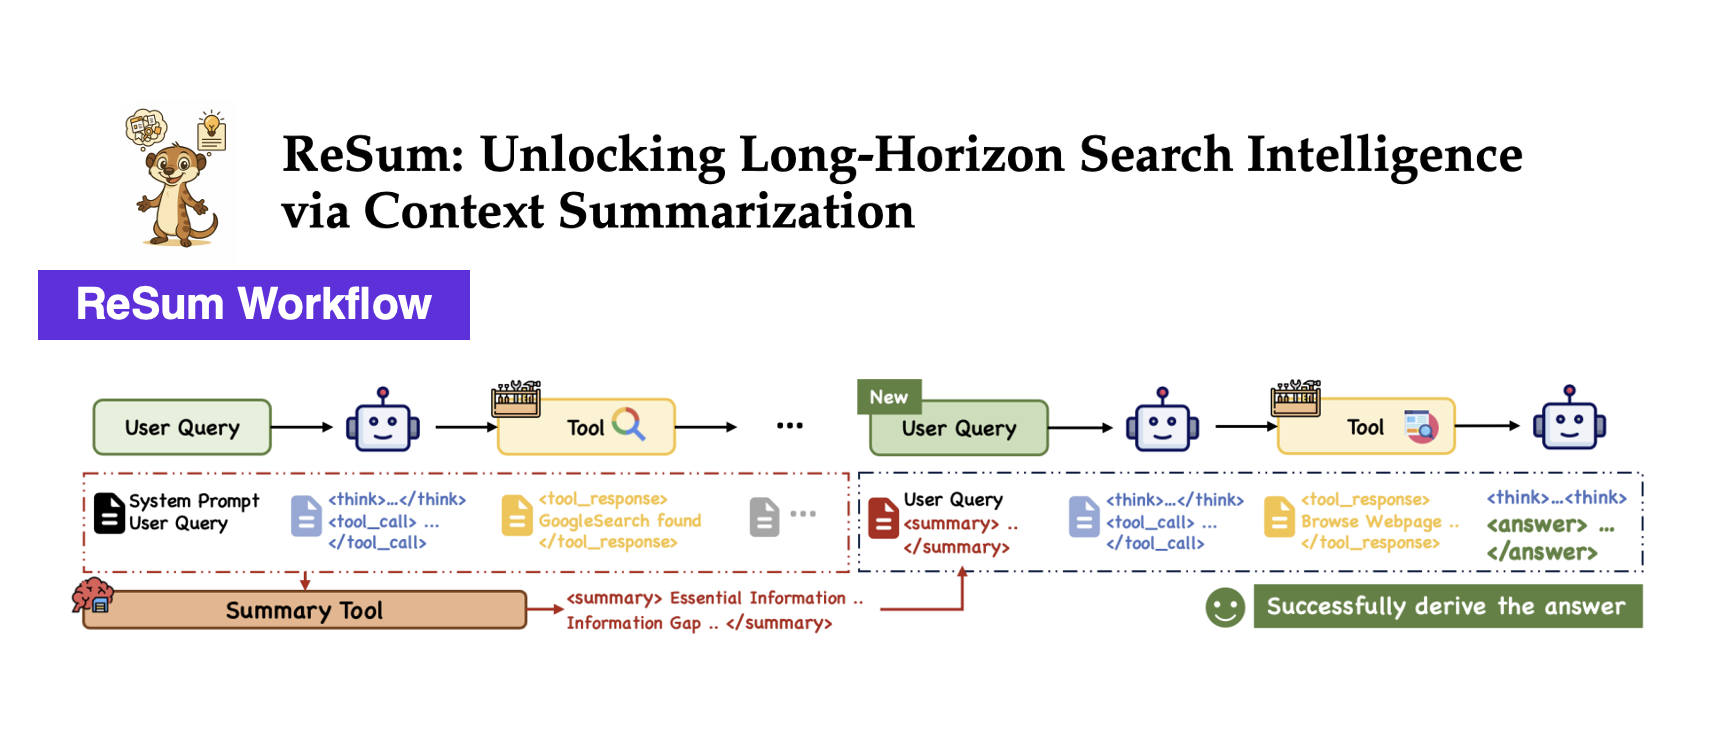
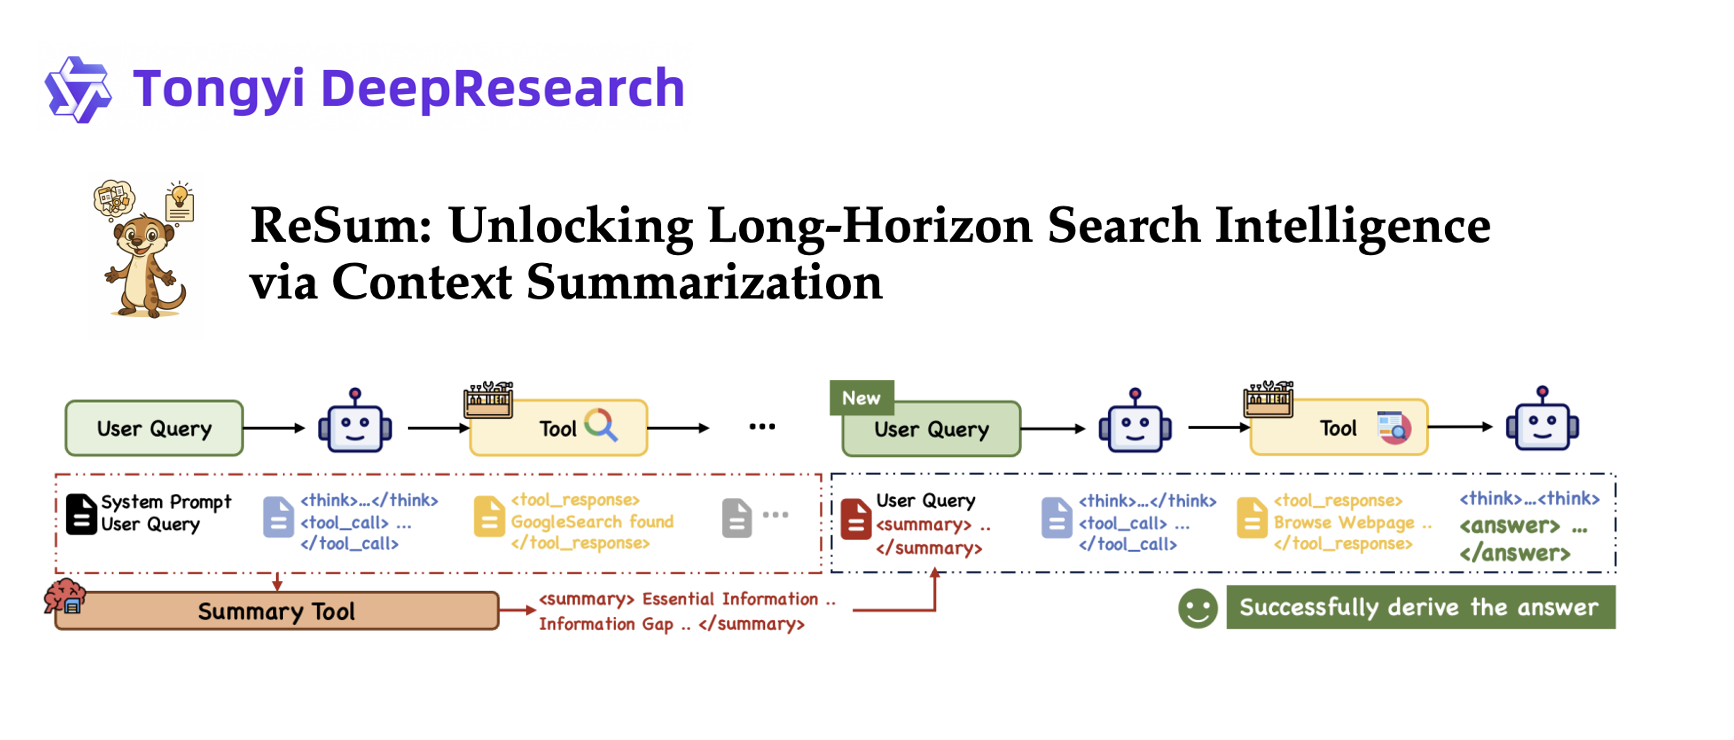
update: July 1, 2026; clean files

Changed region(s): [[0.0, 0.4973, 0.9563, 0.8703], [0.0, 0.0622, 0.8946, 0.4662]]

diff --git a/index.html b/index.html
@@ -23,19 +23,22 @@
 				<div style="float:left;">
 					<span style="font-weight:400;font-size:50px">Xixi WU </span><span style="font-size:28px; ">「吴茜茜」</span><br/>
 					<br/>
-					<span>Ph.D. Student,</span><br/>
+					<span>Ph.D. Candidate,</span><br/>
 					<span>The Chinese University of Hong Kong</span><br/>
+					<span>Student Researcher, Google <img src="images/company/gdm_logo.jpg" height="16" style="vertical-align:middle;margin-left:4px;"></span><br/>
 					<br/>
 
 					<span>
 						<a href="mailto:[email redacted]" class="my_link"><i class="fa fa-envelope"></i> Email</a> /
-						<a href="https://github.com/WxxShirley" class="my_link"><i class="fa fa-github"></i> GitHub</a> / 
-						<a href="https://scholar.google.com/citations?user=VDW27LgAAAAJ&hl=en" class="my_link"><i class="ai ai-google-scholar-square"></i> Google Scholar</a> 
+						<a href="https://github.com/WxxShirley" class="my_link"><i class="fa fa-github"></i> GitHub</a> /
+						<a href="https://scholar.google.com/citations?user=VDW27LgAAAAJ&hl=en" class="my_link"><i class="ai ai-google-scholar-square"></i> Google Scholar</a> /
+						<a href="https://x.com/XixiWu1120" class="my_link"><i class="fa fa-twitter"></i> Twitter</a> /
+						<a href="https://www.linkedin.com/in/xixi-wu-93424a298/" class="my_link"><i class="fa fa-linkedin"></i> LinkedIn</a>
 					</span><br/>
 
 				</div>
 				<div style="float:right">
-					<img src="images/me.jpg" width="128" height="185" style="float:right;margin-top:0px;margin-bottom:0px"></img><br/>
+					<img src="images/me.JPG" width="130" height="195" style="float:right;margin-top:0px;margin-bottom:0px"></img><br/>
 				</div>
 			</div> <!-- class="row" -->
 			
@@ -49,12 +52,12 @@
 				<div class="col-md-12 text-left">
 					<h2>Short Bio</h2>
 					<p>
-						I am a Ph.D. student at The Chinese University of Hong Kong, under the supervision of <a href="https://www1.se.cuhk.edu.hk/~hcheng/">Prof. Hong CHENG</a>.
+						I am currently a Ph.D. candidate at The Chinese University of Hong Kong, advised by <a href="https://www1.se.cuhk.edu.hk/~hcheng/">Prof. Hong CHENG</a>, and a Student Researcher at <a href="https://deepmind.google/">Google DeepMind</a>.
 						Previously, I received my B.S. and M.S. in Computer Science from <a href="https://www.fudan.edu.cn/en/">Fudan University</a> in 2021 and 2024, respectively, under the supervision of <a href="https://openreview.net/profile?id=%7EYun_Xiong1">Prof. Yun XIONG</a>.
-						<br/> 
+						<br/>
 					</p>
 					<p>
-						My research interests are in machine learning and language technologies, including reasoning, planning, and information access in language systems. Before focusing on language technologies, I conducted research on graph learning.
+						My research focuses on <strong>building autonomous agents capable of long-horizon reasoning, planning, and deep information-seeking</strong>, with an emphasis on reinforcement learning for search and tool-use agents. Before working on language agents, I conducted research on graph learning, including community detection and recommendation.
 					</p>
 				</div>
 			</div>
@@ -64,7 +67,27 @@
 					<h3 style="margin-top:5px; color: #0056b3;">Recent News</h3>
 					<ul style="list-style-type: disc; padding-left: 20px;">
 						<li>
-							<span style="font-style: italic; color: #555;">[Aug 2025]</span> 
+							<span style="font-style: italic; color: #555;">[Jun 2026]</span>
+							I joined <strong>Google DeepMind</strong> as a Student Researcher 🚀
+						</li>
+						<li>
+							<span style="font-style: italic; color: #555;">[May 2026]</span>
+							I passed my Ph.D. Thesis Proposal Defense and am now officially a <strong>Ph.D. candidate</strong> 🎓
+						</li>
+						<li>
+							<span style="font-style: italic; color: #555;">[Mar 2026]</span>
+							Our paper <a href="https://arxiv.org/abs/2603.21972" style="color: #0056b3; text-decoration: underline;">Agent-STAR</a> is out on arXiv, a practical training recipe for long-horizon tool-using agents [<a href="https://github.com/WxxShirley/Agent-STAR" style="color: #0056b3; text-decoration: underline;">Code</a>]
+						</li>
+						<li>
+							<span style="font-style: italic; color: #555;">[Feb 2026]</span>
+							Our paper <a href="https://arxiv.org/abs/2510.23458" style="color: #0056b3; text-decoration: underline;">BrowseConf</a> was accepted to <strong>ACL'2026 Findings</strong> 🎉
+						</li>
+						<li>
+							<span style="font-style: italic; color: #555;">[Jan 2026]</span>
+							Our papers <a href="https://openreview.net/forum?id=CByVWPpb8T" style="color: #0056b3; text-decoration: underline;">E-GRPO</a> and <a href="https://openreview.net/forum?id=HuP16O5SJf" style="color: #0056b3; text-decoration: underline;">WebSailor-V2</a> were accepted to <strong>ICLR'2026</strong> ✨
+						</li>
+						<li>
+							<span style="font-style: italic; color: #555;">[Aug 2025]</span>
 							Our paper <a href="https://github.com/WxxShirley/MoLoRAG" style="color: #0056b3; text-decoration: underline;">MoLoRAG</a> was accepted to <strong>EMNLP'2025</strong>. See you in Suzhou ✨
 						</li>
 						<li>
@@ -72,12 +95,8 @@
 							Our paper <a href="https://llmnodebed.github.io/" style="color: #0056b3; text-decoration: underline;">LLMNodeBed</a> was accepted to <strong>ICML'2025</strong>. See you in Vancouver again 😄
 						</li>
 						<li>
-							<span style="font-style: italic; color: #555;">[Nov 2024]</span> 
+							<span style="font-style: italic; color: #555;">[Nov 2024]</span>
 							I was awarded <a href="https://neurips.cc/Conferences/2024/ProgramCommittee" style="color: #0056b3; text-decoration: underline;">NeurIPS'2024 Top Reviewer</a> 🥳
-						</li>
-						<li>
-							<span style="font-style: italic; color: #555;">[Sep 2024]</span> 
-							Our paper <a href="https://github.com/WxxShirley/GNN4TaskPlan" style="color: #0056b3; text-decoration: underline;">GNN4TaskPlan</a> was accepted to NeurIPS'2024. See you in Vancouver!
 						</li>
 					</ul>
 				</div>
@@ -98,7 +117,9 @@
 						ReSum studies the use of periodic context summarization to support longer reasoning processes in language systems. It is designed as a lightweight extension with minimal changes to existing ReAct workflows, and shows improved performance on challenging information-seeking benchmarks like BrowseComp and GAIA.
 						<br/>
 						<div style="display: flex; align-items: center;">
-							<a href="https://arxiv.org/abs/2509.13313" class="paper-link"> [Paper] </a> 
+							<img src="https://img.shields.io/github/stars/Alibaba-NLP/DeepResearch" style="float:left;"/>
+							<a href="https://arxiv.org/abs/2509.13313" class="paper-link"> [Paper] </a>
+							<a href="https://github.com/Alibaba-NLP/DeepResearch/tree/main/WebAgent/WebResummer" class="code-link"> [Code] </a>
 						</div>
 					</li><br/>
 
@@ -106,7 +127,7 @@
 						<div>
 							<img src="images/research/nodebed_poster.png" height="180" alt="generation" class="img_research"/>
 						</div>
-						<h4><strong>Benchmark of LLM4Graph Algorithms (ICML'2025)</strong></h4> 
+						<h4><strong>LLMNodeBed: Benchmarking LLMs for Node Classification (ICML'2025)</strong></h4>
 
 						We introduce LLMNodeBed, a PyG-based testbed for LLM-based node classification algorithms. It integrates 14 datasets, supports 8 LLM-based and 8 classic methods, and covers 3 learning configurations.
 
@@ -138,19 +159,60 @@
 
 			<div class="row row-thin">
 				<div class="col-md-12 text-left">
+					<h2>Technical Reports</h2>
+				</div>
+				<ul class="my_table">
+					<li class="my_item">
+						<strong><a href="https://arxiv.org/abs/2510.24701" class="title-link">Tongyi DeepResearch Technical Report</a></strong><br/>
+						<span>Tongyi DeepResearch Team (<strong>Xixi Wu</strong> contributed to RL training implementation for Tongyi DeepResearch models)</span><br/>
+						<em>arXiv preprint, 2025. <strong style="color:#00897b;">100+ Citations</strong></em><br/>
+						<div style="display: flex; align-items: center;">
+							<img src="https://img.shields.io/github/stars/Alibaba-NLP/DeepResearch" style="float: left;"/>
+							<a href="https://github.com/Alibaba-NLP/DeepResearch" class="code-link" style="margin-left: 5px">[Code]</a>
+							<a href="https://huggingface.co/Alibaba-NLP/Tongyi-DeepResearch-30B-A3B" class="slides-link">[Model]</a>
+							<a href="https://tongyi-agent.github.io/blog/introducing-tongyi-deep-research/" class="blog-link">[Blog]</a>
+						</div>
+					</li><br/>
+
+					<li class="my_item">
+						<strong><a href="https://arxiv.org/abs/2507.02592" class="title-link">WebSailor: Navigating Super-human Reasoning for Web Agent</a></strong><br/>
+						<span>Kuan Li, Zhongwang Zhang, Huifeng Yin, Liwen Zhang, Litu Ou, Jialong Wu, Wenbiao Yin, Baixuan Li, Zhengwei Tao, Xinyu Wang, Weizhou Shen, Junkai Zhang, Dingchu Zhang, <strong>Xixi Wu</strong>, Yong Jiang, Ming Yan, Pengjun Xie, Fei Huang, and Jingren Zhou</span><br/>
+						<em>arXiv preprint, 2025. <a href="https://huggingface.co/papers/2507.02592" style="color:#00897b;"><strong>Huggingface Daily Paper Top-1 🏆</strong></a>, <strong style="color:#00897b;">200+ Citations</strong></em><br/>
+					</li><br/>
+				</ul>
+			</div>
+
+			<div class="row row-thin">
+				<div class="col-md-12 text-left">
 					<h2>Selected Publications</h2>
 				</div>
 				<ul class="my_table">
 					<li class="my_item">
+						<strong><a href="https://arxiv.org/abs/2603.21972" class="title-link">Demystifying Reinforcement Learning for Long-Horizon Tool-Using Agents: A Comprehensive Recipe</a></strong><br/>
+						<span><strong>Xixi Wu</strong>, Qianguo Sun, Ruiyang Zhang, Chao Song, Junlong Wu, Yiyan Qi, and Hong Cheng</span><br/>
+						<em>arXiv preprint, 2026</em><br/>
+						<div style="display: flex; align-items: center;">
+							<img src="https://img.shields.io/github/stars/WxxShirley/Agent-STAR" style="float: left;"/>
+							<a href="https://github.com/WxxShirley/Agent-STAR" class="code-link" style="margin-left: 5px">[Code]</a>
+						</div>
+					</li><br/>
+
+					<li class="my_item">
+						<strong><a href="https://arxiv.org/abs/2510.23458" class="title-link">BrowseConf: Confidence-Guided Test-Time Scaling for Web Agents</a></strong><br/>
+						<span>Litu Ou, Kuan Li, Huifeng Yin, Liwen Zhang, Zhongwang Zhang, <strong>Xixi Wu</strong>, Rui Ye, Zile Qiao, Pengjun Xie, Jingren Zhou, and Yong Jiang</span><br/>
+						<em>Findings of the Association for Computational Linguistics (<strong>ACL</strong>), 2026</em><br/>
+					</li><br/>
+
+					<li class="my_item">
 						<strong><a href="https://arxiv.org/abs/2509.13313" class="title-link">ReSum: Unlocking Long-Horizon Search Intelligence via Context Summarization</a></strong><br/>
 						<span><strong>Xixi Wu*</strong>, Kuan Li*, Yida Zhao, Liwen Zhang, Litu Ou, Huifeng Yin, Zhongwang Zhang, Xinmiao Yu, Dingchu Zhang, Yong Jiang, Pengjun Xie, Fei Huang, Minhao Cheng, Shuai Wang, Hong Cheng, and Jingren Zhou</span><br/>
-						<em>arXiv preprint, 2025</em><br/>
+						<em>arXiv preprint, 2025. <strong style="color:#00897b;">~80 Citations</strong></em><br/>
 					</li><br/>
 
 					<li class="my_item">
 						<strong><a href="https://openreview.net/forum?id=CByVWPpb8T" class="title-link">Repurposing Synthetic Data for Fine-grained Search Agent Supervision</a></strong><br/>
 						<span>Yida Zhao, Kuan Li, <strong>Xixi Wu</strong>, Liwen Zhang, Dingchu Zhang, Baixuan Li, Maojia Song, Zhuo Chen, Chenxi Wang, Xinyu Wang, Kewei Tu, Pengjun Xie, Jingren Zhou, and Yong Jiang</span><br/>
-						<em>To appear, Proceedings of the International Conference on Learning Representations (<strong>ICLR</strong>), 2026</em><br/>
+						<em>Proceedings of the International Conference on Learning Representations (<strong>ICLR</strong>), 2026</em><br/>
 					</li><br/>
 
 					<li class="my_item">
@@ -182,12 +244,18 @@
 						<em>Proceedings of the 38th Conference on Neural Information Processing Systems (<strong>NeurIPS</strong>), 2024</em><br/>
 						<div style="display: flex; align-items: center;">
 							<img src="https://img.shields.io/github/stars/WxxShirley/GNN4TaskPlan" style="float: left;"/>
-							<a href="https://github.com/WxxShirley/GNN4TaskPlan" class="code-link">[Code]</a> 
-							<a href="slides/NIPS2024Plan.pdf" class="slides-link">[Poster]</a> 
+							<a href="https://github.com/WxxShirley/GNN4TaskPlan" class="code-link">[Code]</a>
+							<a href="slides/NIPS2024Plan.pdf" class="slides-link">[Poster]</a>
 							<a href="https://zhuanlan.zhihu.com/p/936340518" class="blog-link">[Blog]</a>
 						</div>
 					</li><br/>
+				</ul>
 
+				<div class="col-md-12 text-left" style="margin: 0px 0 8px 0;">
+					<a href="javascript:void(0)" id="toggle-pubs-link" onclick="togglePubs()">[Show all publications]</a>
+				</div>
+
+				<ul class="my_table" id="more-pubs-list" style="display:none;">
 					<li class="my_item">
 						<strong><a href="https://arxiv.org/abs/2408.07369" class="title-link">ProCom: A Few-shot Targeted Community Detection Algorithm</a></strong><br/>
 						<span><strong>Xixi Wu</strong>, Kaiyu Xiong, Yun Xiong, Xiaoxin He, Yao Zhang, Yizhu Jiao, and Jiawei Zhang</span><br/>
@@ -236,7 +304,7 @@
 
 				</ul>
 			</div>
-            
+
 
 			<div class="row row-thin">
 				<div class="col-md-12 text-left">
@@ -244,19 +312,30 @@
 				</div>
 				<ul class="my_table">
 					<li class="my_item">
-						<img src="images/company/microsoft.jpg" style="margin-top:0px; margin-left: 26px; margin-right: 30px;" width="45" height="45" alt="generation"/>
+						<img src="images/company/gdm.jpg" style="margin-top:0px; margin-left: 26px; margin-right: 30px;" width="45" height="45" alt="generation"/>
 						<div><p>
-							<strong> Microsoft Research Asia </strong><br/>
-							<em>Research Intern, Shanghai AI/ML Group</em>
-							<span class="date">Feb. 2024 - Jun. 2024</span><br/><br/>
+							<strong> Google DeepMind </strong><br/>
+							<em>Student Researcher</em>
+							<span class="date">Jun. 2026 - </span><br/>
+							<span style="color:#888; font-size:0.85em;">Mountain View, CA, USA</span><br/><br/>
 						</p></div>
 					</li>
 					<li class="my_item">
 						<img src="images/company/tongyi-logo.jpg" style="margin-top:5px; margin-left: 26px; margin-right: 30px;" width="48" height="48" alt="generation" />
 						<div><p>
 							<strong> Alibaba Group </strong><br/>
-							<em>Research Intern, Tongyi Lab</em>
+							<em>Research Intern, Deep Research Team, Tongyi Lab</em>
 							<span class="date">Jun. 2025 - Oct. 2025</span><br/>
+							<span style="color:#888; font-size:0.85em;">Hangzhou, China</span><br/><br/>
+						</p></div>
+					</li>
+					<li class="my_item">
+						<img src="images/company/microsoft.jpg" style="margin-top:0px; margin-left: 26px; margin-right: 30px;" width="45" height="45" alt="generation"/>
+						<div><p>
+							<strong> Microsoft Research Asia </strong><br/>
+							<em>Research Intern, Shanghai AI/ML Group</em>
+							<span class="date">Feb. 2024 - Jun. 2024</span><br/>
+							<span style="color:#888; font-size:0.85em;">Shanghai, China</span><br/><br/>
 						</p></div>
 					</li>
 				</ul>
@@ -293,7 +372,7 @@
 					<h2>Professional Services</h2>
 					<ul>
 						<li>
-							<strong>Conference Reviewer:</strong> NeurIPS'2024 (<strong>Top Reviewer Award🏆</strong>) - 2025, ICLR'2025 - 2026, ICML'2025 - 2026, WWW'2024 Graph Foundation Model (GFM) Workshop, SIGKDD'2024 - 2025, AAAI 2026
+							<strong>Conference Reviewer:</strong> NeurIPS'2024 (<strong>Top Reviewer Award🏆</strong>) - 2026, ICLR'2025 - 2026, ICML'2025 - 2026, WWW'2024 Graph Foundation Model (GFM) Workshop, SIGKDD'2024 - 2025, AAAI 2026
 						</li>
 						<li>
 							<strong>Journal Reviewer: </strong> IEEE Transactions on Knowledge and Data Engineering (<strong>TKDE</strong>), Transactions on Machine Learning Research (<strong>TMLR</strong>)
@@ -307,15 +386,17 @@
 				<div class="col-md-12 text-left">
 					<h2>Miscellaneous</h2>
 					<ul>
+						<li>Goal for this year: <strong style="color:#e65100;">run a half marathon</strong>! Let's see 💨</li>
+
 						<li>I love sports like swimming 🏊 and running 🏃. I also enjoy cooking Chinese food 🤣 </li>
-	                        
+
 						<li>During my undergraduate studies, I was interested in mobile app development (You can find all the source codes on my GitHub):
 							<table>
 								<tr>
 									<td style="padding: 10px; text-align: center;">
 										<img src="images/project/lose-weight.png" style="width: 60px; margin: 5px;">
 										<img src="images/project/lose-weight.png" style="width: 60px; margin: 5px;">
-										<p><em><strong><a href="https://github.com/WxxShirley/LoseWeight" class="title-link">Lose Weight</a></strong>, a Fluter App</em></p>
+										<p><em><strong><a href="https://github.com/WxxShirley/LoseWeight" class="title-link">Lose Weight</a></strong>, a Flutter App</em></p>
 										
 									</td>
 
@@ -347,15 +428,21 @@
 
 		</div> <!-- class="main" -->
 
-		<p align="center" width="200" style="margin-top:30px;">
-			<a href="https://clustrmaps.com/site/1bwhn"  title="Visit tracker"><img src="//www.clustrmaps.com/map_v2.png?d=QfDMfsfFQX5Sbm_3on4wMmjwODxm5gLZT1lU2FsMz1s&cl=ffffff" /></a>
-		</p>
-
 		<div style="padding:14px 0px 30px 0px;text-align:center;color:#d9d9d9;clear:both">
-			Last updated at Feb 2, 2026 by Xixi
+			Last updated at Jul 1, 2026 by Xixi
 		</div>
 
 		</div> <!-- class="inner page" -->
 		</div> <!-- class="page" -->
+
+		<script>
+			function togglePubs() {
+				var list = document.getElementById('more-pubs-list');
+				var link = document.getElementById('toggle-pubs-link');
+				var hidden = list.style.display === 'none';
+				list.style.display = hidden ? 'block' : 'none';
+				link.textContent = hidden ? '[Show fewer publications]' : '[Show all publications]';
+			}
+		</script>
 	</body>
 </html>